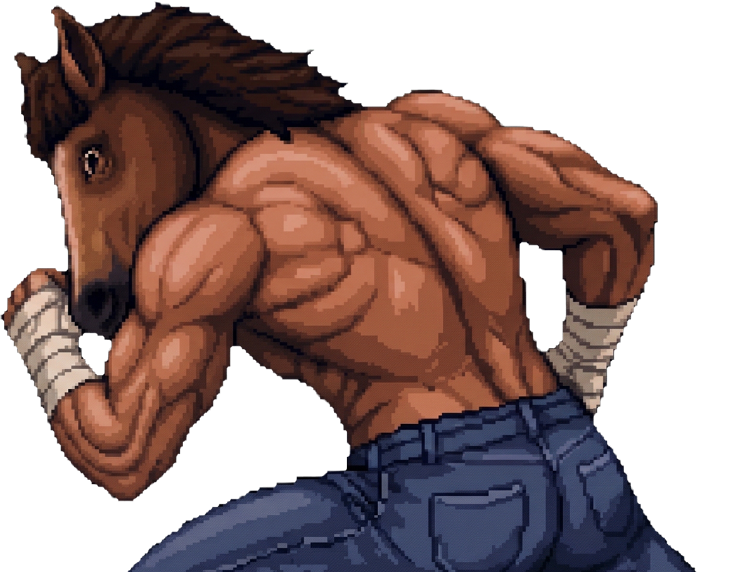
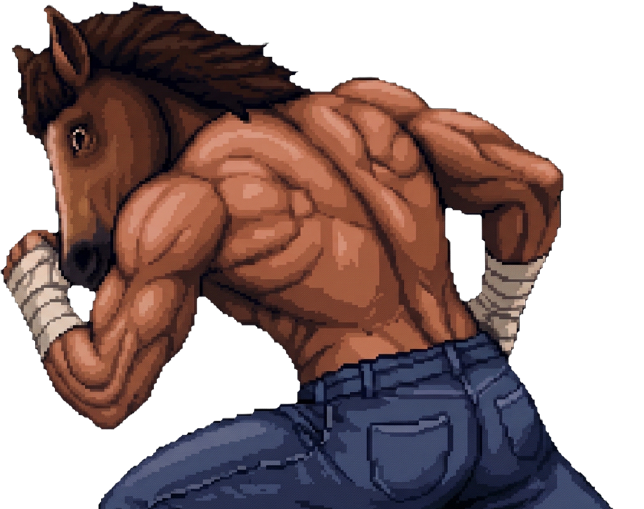
Вагон: мини-игра сразу при входе, Конь спиной меньше (ровная стойка перед уворотом), без боя — Ножовщик сбегает; разметка, кресла, дверь в коллектор

diff --git a/index.html b/index.html
@@ -2824,15 +2824,15 @@ const ROOMS={
       {id:'trains',x0:600,x1:760,label:'вагоны',once:1,lines:['Старые вагоны в граффити. Внутри — тряпьё и кости. Слишком маленькие для человека. Слишком большие для крысы.']},
       {id:'bench',x0:1150,x1:1200,label:'верстак',once:1,lines:['Верстак. Пилы, тиски, ведро с бурой водой. Здесь что-то разделывали. Не металл.']},
       {id:'wagon',x0:1205,x1:1267,label:'вагон-притон',to:'c2_wagon',at:300,face:1}]},
-  c2_wagon:{name:'ВАГОН-ПРИТОН',kind:'img',bg:'loc_c2_wagon.jpg',w:967.5,gy:505,al:170,ar:810,z:1.3,tint:'rgba(20,0,2,.1)',mg:'knife',mgFlag:'knives',
+  c2_wagon:{name:'ВАГОН-ПРИТОН',kind:'img',bg:'loc_c2_wagon.jpg',w:967.5,gy:460,al:246,ar:744,z:1.3,tint:'rgba(20,0,2,.1)',mg:'knife',mgFlag:'knives',
+    fgs:[['wg_fg_seat2',0,341.7],['wg_fg_seat1',701,342]],
     lights:[{x:470,y:60,r:240,c:'255,50,50',a:.22,fl:.02},{x:210,y:120,r:150,c:'255,60,60',a:.14,fl:.03},{x:760,y:120,r:150,c:'255,60,60',a:.14,fl:.03}],
-    enter:['Внутри вагона — красный свет и запах железа. На стене мишень, утыканная ножами.','В конце вагона сидел человек и точил лезвие. Не поднимая головы, он сказал:','— Я Ножовщик. Посмотрим, как быстро ты моргаешь, Конь.'],
-    fights:[{x:0,need:'knives',lock:[170,810],foes:['knifer'],pre:['Ножи кончились. Он вытер ладони о колени и встал.','— Ладно, — сказал он. — По-старому.'],
-      post:['Ножовщик хрипел, прижимая руку к сломанным рёбрам.','— Док... держит её на Сити-Холл. Старая станция, девятьсот четвёртого года. Туда только через коллектор... и вниз, по сливной трубе.','— Труба длинная, Конь. Никто ещё не доехал целым.'],then:()=>{STY.flags.knifer=1;}}],
-    spots:[{id:'back',x0:170,x1:270,label:'в депо',to:'c2_depot',at:1150,face:-1},
-      {id:'table',x0:400,x1:560,label:'стол с ножами',once:1,lines:['Стол, утыканный ножами, как подушечка для иголок. Под ним — ящик. На карте кто-то обвёл красным старую станцию.']},
-      {id:'hatch',x0:650,x1:810,label:'люк в полу',to:'c2_sewer',at:150,face:1,need:'knifer',locked:['Люк в полу. Ножовщик сидит прямо на нём.'],
-      lines:['Под люком — лестница в коллектор. Снизу тянуло холодом и гнилью.']}]},
+    enter:['Внутри вагона — красный свет и запах железа. На стене мишень, утыканная ножами.','В конце вагона, за столом, стоял человек и точил лезвие. Не поднимая головы, он сказал:','— Я Ножовщик. Посмотрим, как быстро ты моргаешь, Конь.'],
+    // мини-игра при входе; после неё боя нет — Ножовщик сбегает, вагон можно пройти
+    mgWin:['Ножи кончились. Ножовщик посмотрел на пустой стол, потом на меня — и рванул в хвост вагона.','— Док держит её на Сити-Холл! — донеслось уже из темноты. — Старая станция! Лезь через коллектор, Конь, и вниз по трубе!','— Труба длинная. Никто ещё не доехал целым!','Хлопнула дверь. Я остался один среди ножей.'],
+    spots:[{id:'door',x0:246,x1:330,label:'дверь в коллектор',to:'c2_sewer',at:150,face:1,need:'knifer',locked:['Дверь в коллектор. Сначала — Ножовщик.'],
+      lines:['За дверью — лестница вниз, в коллектор. Снизу тянуло холодом и гнилью.']},
+      {id:'table',x0:470,x1:640,label:'стол с ножами',once:1,lines:['Стол, утыканный ножами, как подушечка для иголок. Под ним — ящик. На карте кто-то обвёл красным старую станцию.']}]},
   c2_sewer:{name:'КОЛЛЕКТОР',kind:'stub',bg:'loc_c2_sewer.jpg',col:['#040706','#0f1a14'],w:2600,gy:470,al:60,ar:2540,z:.8,tint:'rgba(0,10,4,.3)',
     deco:[[400,'сточный канал'],[1200,'мостки над шахтой'],[2380,'сливная труба вниз']],
     lights:[{x:1200,y:200,r:220,c:'140,255,170',a:.16,fl:.04},{x:2380,y:300,r:140,c:'255,220,140',a:.2}],
@@ -2929,8 +2929,9 @@ function storyRoom(id,x,face){
   foeGone();STY.lock=null;STY.fight=null;STY.koT=0;projs=[];parts=[];hitstop=0;
   camX=clamp(x-VW()*.45,0,Math.max(0,WW-VW()));
   STY.cp={room:id,x,face,hp:p.hp};STY.label={s:R.name,t:150};
+  if(R.mg&&!STY.flags[R.mgFlag]){ // мини-игра при входе (ножи): сразу её вид, вступление идёт поверх
+    const k=R.mgFlag;mgStart(R.mg,()=>{STY.flags[k]=1;if(R.mgWin){STY.flags.knifer=1;storyRoom(id,(R.al+R.ar)/2,-1);storyCap(R.mgWin);}});}
   if(!STY.seen[id]){STY.seen[id]=1;if(R.enter)storyCap(R.enter);}
-  if(R.mg&&!STY.flags[R.mgFlag]){const k=R.mgFlag;storyCap([],()=>mgStart(R.mg,()=>{STY.flags[k]=1;}));} // мини-игра при входе (ножи)
 }
 function spawnFoe(key){
   const d=FOES[key],e=mkF(1,d.ch,true),L=STY.lock;
@@ -3390,10 +3391,10 @@ function mgHurt(M,dmg){F[0].hp=Math.max(0,F[0].hp-dmg*STY.D.pdm);M.flash=14;shak
 // Арт: фон loc_c2_wagon.jpg (тот же, что у комнаты), метатель mg_knifer (2 кадра: замах/бросок) за столом kn_table,
 // Конь со спины kn_horse1..6 (4 — стойка; 1–3 — уход вправо, 5–6 — влево), ножи kn_knife1..3. Всё нарезано
 // tools/wagon_knives.py в масштабе 2× экранного; положения сняты с рефа автора.
-const KN_TGT=[[345,300],[455,385],[575,325]];   // голова (слева), спина, правое плечо
+const KN_TGT=[[365,300],[480,225],[595,300]];   // левое плечо, голова, правое плечо (Конь спиной, по центру)
 const KN_HAND=[566,232];                         // рука метателя в замахе
-const KN_AX=[0,170,170.25,182,250.75,205.25,365.25]; // середина низа джинсов в кадре kn_horseN (экранные px)
-const KN_DODGE=[[1,3],[2,2],[5,6]];              // кадры ухода от ножа по полосе: [начало, пик]
+const KN_AX=[171.25,144.75,145,155,215.75,177,314]; // середина низа джинсов в кадре kn_horseN (экранные px); 0 — ровная стойка
+const KN_DODGE=[[1,3],[2,2],[4,6]];              // кадры ухода от ножа по полосе: [начало, пик]
 function knifeTick(M){
   const n=IN[0];
   if(M.swayT>0)M.swayT--;else M.sway*=.8;
@@ -3431,7 +3432,7 @@ function drawKnife(){
     ctx.drawImage(kr,fr*cw,0,cw,kr.naturalHeight,bx+485.4,202.5,cw/2,kr.naturalHeight/2);}
   const tb=simg('kn_table');if(imgOk(tb))ctx.drawImage(tb,bx+472.2,288.3,tb.naturalWidth/2,tb.naturalHeight/2);
   // Конь со спины: стойка или уход от ножа
-  const dt=M.swayT,fr=!M.dodge||dt<=0?4:dt>16||dt<=5?M.dodge[0]:M.dodge[1],hb=simg('kn_horse'+fr);
+  const dt=M.swayT,fr=!M.dodge||dt<=0?0:dt>16||dt<=5?M.dodge[0]:M.dodge[1],hb=simg('kn_horse'+fr);
   if(imgOk(hb)){const w=hb.naturalWidth/2,h=hb.naturalHeight/2,sh=M.flash>6?(frame%4<2?-4:4):0;ctx.drawImage(hb,480-KN_AX[fr]+sh,H-h+(M.flash>6?6:0),w,h);}
   // ножи: летят из руки метателя к своей точке, растут с приближением; увернулся — нож пролетает мимо
   for(const k of M.knives){
@@ -3522,7 +3523,7 @@ function drawMg(){if(STY.mg.type==='knife')drawKnife();else drawPipe();
   // здоровье Коня поверх мини-игры
   const pl=F[0],w=300,x=30;ctx.fillStyle='rgba(0,0,0,.75)';ctx.fillRect(x-3,24,w+6,22);ctx.fillStyle='#e8e0d0';ctx.fillRect(x,27,clamp(pl.hpLag,0,100)/100*w,16);
   ctx.fillStyle=pl.hp<30?'#c8281e':'#b8a46a';ctx.fillRect(x,27,clamp(pl.hp,0,100)/100*w,16);pl.hpLag+=(pl.hp-pl.hpLag)*.06;
-  if(STY.mg.wait>0)txt(STY.mg.type==='knife'?'ГОТОВЬСЯ…':'ДЕРЖИСЬ…',W/2,H/2,48,'#efe6c8');}
+  if(STY.mg.wait>0&&!STY.cap.length)txt(STY.mg.type==='knife'?'ГОТОВЬСЯ…':'ДЕРЖИСЬ…',W/2,H/2,48,'#efe6c8');}
 function storyHud(){
   const S=STY,pl=F[0],en=F[1];
   if(S.cheat){if(S.search)drawSearch();else if(S.mg)drawMg();drawCheat();return;}
@@ -3538,7 +3539,7 @@ function storyHud(){
   };
   if(!S.search&&!S.mg){bar(30,300,pl,'КОНЬ',false);if(!en.gone)bar(W-330,300,en,en.name||'',true);}
   if(pl.combo>=2&&!en.gone)txt(`${pl.combo} УДАРОВ`,30,108,26,'#e8c060','left');
-  if(S.label){ctx.globalAlpha=Math.min(1,S.label.t/30);txt(S.label.s,W/2,44,20,'#efe6c8','center');ctx.globalAlpha=1;}
+  if(S.label&&!S.mg){ctx.globalAlpha=Math.min(1,S.label.t/30);txt(S.label.s,W/2,44,20,'#efe6c8','center');ctx.globalAlpha=1;}
   if(S.near&&!S.cap.length&&!S.fade){
     const z=RZ(),x=(pl.x-camX)*z,y=(pl.y-232)*z,t=`${ctlLabel('g')} — ${S.near.label}`;ctx.font='bold 14px Arial';const w=ctx.measureText(t).width+20;
     ctx.fillStyle='rgba(10,10,14,.75)';ctx.fillRect(x-w/2,y-18,w,26);ctx.strokeStyle='rgba(239,230,200,.7)';ctx.strokeRect(x-w/2,y-18,w,26);

diff --git a/tools/wagon_knives.py b/tools/wagon_knives.py
@@ -62,8 +62,30 @@ for src_n, name in (('нож1.png', 'kn_knife1'), ('нож2.png', 'kn_knife2'), 
     g = (k[..., 1] > k[..., 0] + .08) & (k[..., 1] > k[..., 2] + .08); k[g, 3] = 0
     save(scl(k, S), name + '.png'); print('KNIFE', name, round(k.shape[1] * S), round(k.shape[0] * S))
 # увороты: якорь — середина нижнего ряда джинсов, верх головы
-for i in range(1, 7):
-    d = load(f'уворот{i}.png'); hh, ww = d.shape[:2]; al = d[..., 3] > .5
+for i in range(0, 7):  # 0 — ровная стойка спиной (перед каждым уворотом)
+    d = load(f'уворот{i}.png' if i else 'позиция перед уворотом.png'); hh, ww = d.shape[:2]; al = d[..., 3] > .5
     row = np.nonzero(al[hh - 3])[0]; cols = np.nonzero(al.any(0))[0]; rows = np.nonzero(al.any(1))[0]
     save(scl(d), f'kn_horse{i}.png')
     print('DODGE', i, 'size', round(ww * S), round(hh * S), 'bottom', round(row.min() * S), round(row.max() * S), 'x', round(cols.min() * S), round(cols.max() * S), 'top', round(rows.min() * S))
+# разметка ходьбы (зелёная полоса) и масштаб персонажа после мини-игры
+mk = load('рамзетка и размер перса.png')
+gr = (mk[..., 1] > .6) & (mk[..., 0] < .4) & (mk[..., 2] < .4)
+ys, xs = np.nonzero(gr); print('GREEN y', round(ys.min() * S), round(ys.max() * S), 'mid', round((ys.min() + ys.max()) / 2 * S), 'x', round(xs.min() * S), round(xs.max() * S))
+hm = (np.abs(mk[..., :3] - bg[..., :3]).max(-1) > .15) & ~gr
+cnt = hm.sum(1); rows = np.nonzero(cnt > 4)[0]; cc = hm.sum(0); cols = np.nonzero(cc > 4)[0]
+print('HORSE y', round(rows.min() * S), round(rows.max() * S), 'h', round((rows.max() - rows.min()) * S), 'x', round(cols.min() * S), round(cols.max() * S))
+# передние планы кресел: точное место на фоне
+for fn, name in (('передний план кресел1.png', 'wg_fg_seat1'), ('передний план кресел2.png', 'wg_fg_seat2')):
+    f = load(fn); fh, fw = f.shape[:2]; m = f[..., 3] > .95; yy, xx = np.nonzero(m)
+    sel = np.random.RandomState(1).choice(len(yy), min(3000, len(yy)), replace=False); yy, xx = yy[sel], xx[sel]; v = f[yy, xx, :3]
+    best = (9, 0, 0)
+    for oy in range(0, bg.shape[0] - fh + 1, 4):
+        for ox in range(0, bg.shape[1] - fw + 1, 4):
+            e = np.abs(bg[oy + yy, ox + xx, :3] - v).mean()
+            if e < best[0]: best = (e, ox, oy)
+    e0, x0, y0 = best
+    for oy in range(max(0, y0 - 4), min(bg.shape[0] - fh, y0 + 4) + 1):
+        for ox in range(max(0, x0 - 4), min(bg.shape[1] - fw, x0 + 4) + 1):
+            e = np.abs(bg[oy + yy, ox + xx, :3] - v).mean()
+            if e < best[0]: best = (e, ox, oy)
+    save(scl(f), name + '.png'); print('SEAT', name, 'at', round(best[1] * S, 1), round(best[2] * S, 1), 'err %.4f' % best[0], 'size', round(fw * S), round(fh * S))
